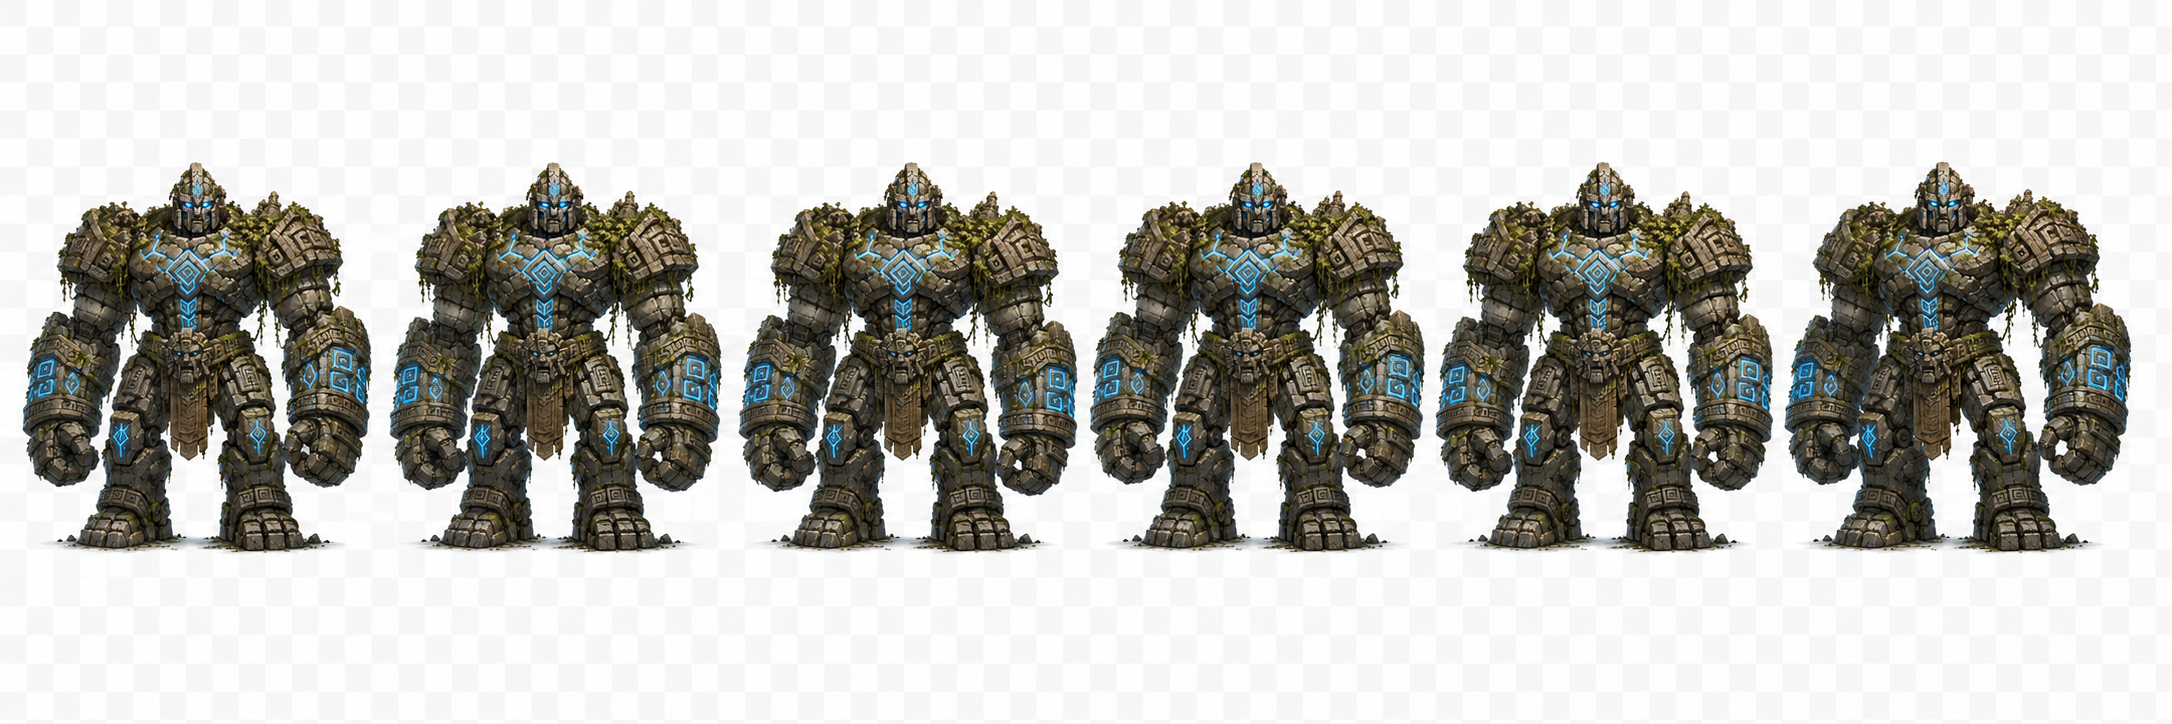
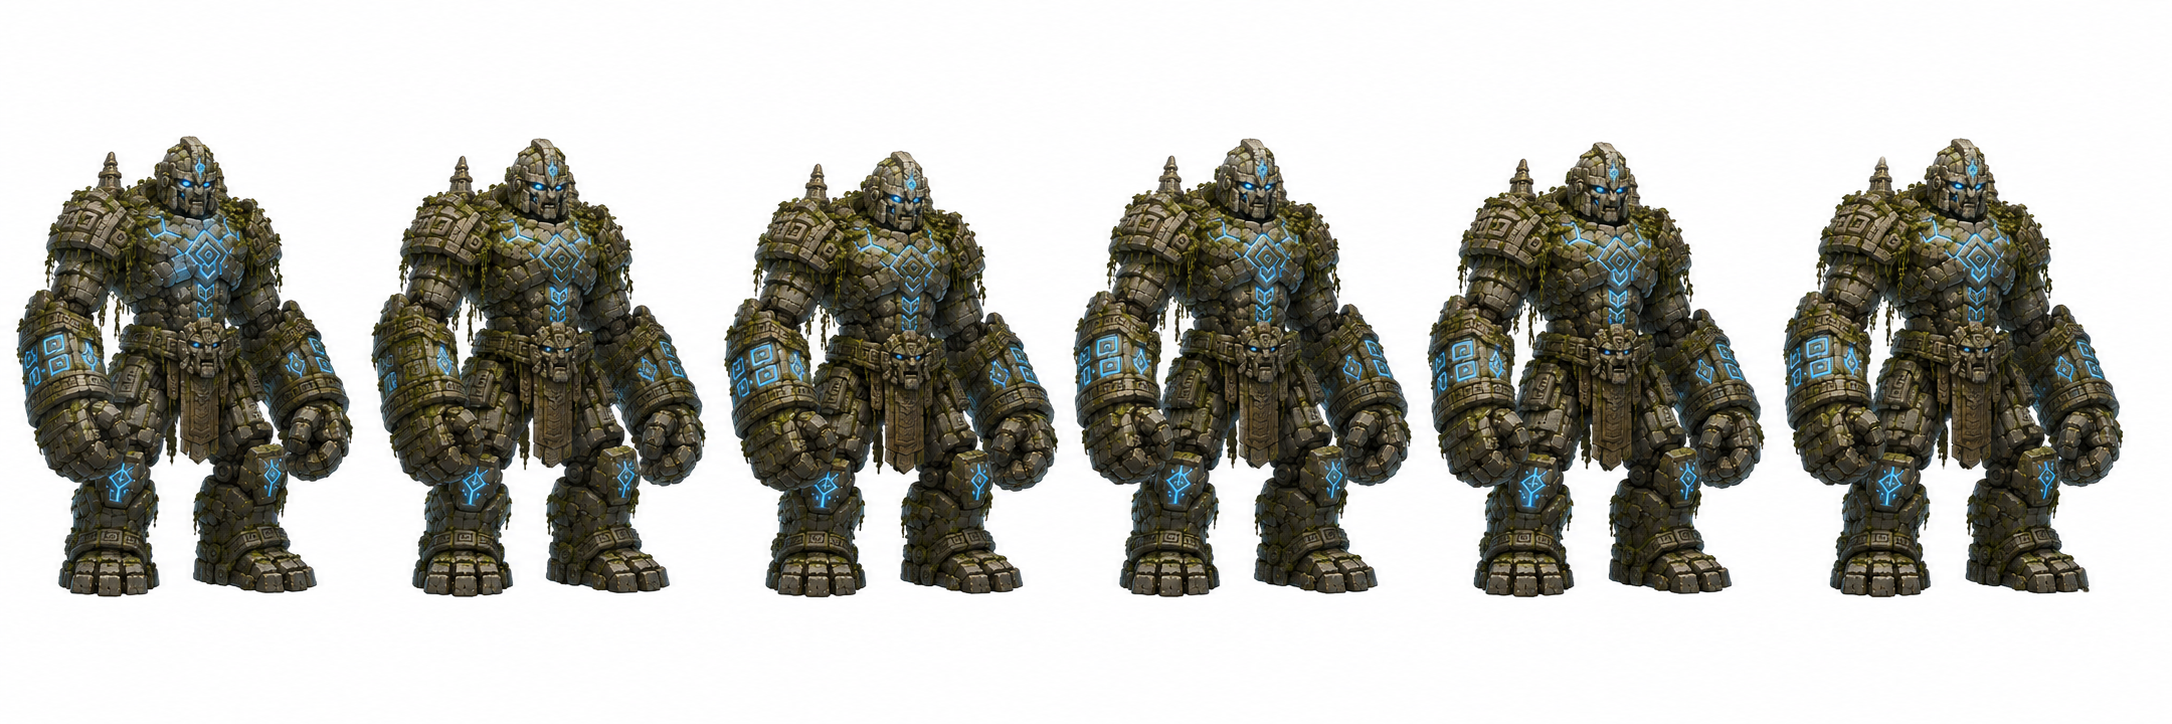
Web 2D: wire bespoke golem animations for all 5 attacks
Replaces the placeholder poses (dash->walk, others->old slam) with the generated
9-sheet golem pack: idle, walk, smash, dash, bigrock, scatter, quake, hit, death.
- Packer: golem job list updated to the 9 single-row clips; renamed slam->smash
  to match the sim's attack names; added an `even` split option for sheets whose
  debris bridges frame gaps (scatter) and applied it there.
- View: GOLEM strip set loads the 9 clips with per-clip fps tuned so each attack
  plays across its windup->strike; bossClip() now returns b.attack directly so
  every pattern shows its own animation. Telegraphs/boulders unchanged.
- Removed obsolete golem_slam art; updated assets/README. 38 tests still pass.

Claude-Session: https://claude.ai/code/session_01T2UvrvtPQEdDNw9UqU1nTn

diff --git a/web2d/src/main.js b/web2d/src/main.js
@@ -59,11 +59,15 @@ const pointers = new Map(); // pointerId -> { role }
 // Missing files fall back to the placeholder circle, so the game runs today.
 const BOSS_DISPLAY_H = 190; // on-screen height of the golem in px
 const GOLEM = {
-  idle:  loadStrip("./assets/golem_idle.png", 6, 8, true),
-  walk:  loadStrip("./assets/golem_walk.png", 8, 10, true),
-  slam:  loadStrip("./assets/golem_slam.png", 10, 14, false),
-  hit:   loadStrip("./assets/golem_hit.png", 4, 16, false),
-  death: loadStrip("./assets/golem_death.png", 6, 9, false),
+  idle:    loadStrip("./assets/golem_idle.png", 6, 8, true),
+  walk:    loadStrip("./assets/golem_walk.png", 8, 10, true),
+  smash:   loadStrip("./assets/golem_smash.png", 8, 8, false),
+  dash:    loadStrip("./assets/golem_dash.png", 6, 7, false),
+  bigrock: loadStrip("./assets/golem_bigrock.png", 6, 7, false),
+  scatter: loadStrip("./assets/golem_scatter.png", 6, 7, false),
+  quake:   loadStrip("./assets/golem_quake.png", 8, 6, false),
+  hit:     loadStrip("./assets/golem_hit.png", 4, 16, false),
+  death:   loadStrip("./assets/golem_death.png", 6, 9, false),
 };
 const bossAnim = new Animator();
 
@@ -104,11 +108,8 @@ function updateBossAnimSignals(dt) {
 function bossClip() {
   const b = game.boss;
   if (game.over === "won") return "death";
-  if (b.state === "windup" || b.state === "strike") {
-    // Placeholder mapping until per-attack art exists: the dash reads as a run,
-    // the rest share the slam pose. (Regenerating golem art is the next step.)
-    return b.attack === "dash" ? "walk" : "slam";
-  }
+  // Each attack now has its own animation (smash/dash/bigrock/scatter/quake).
+  if (b.state === "windup" || b.state === "strike") return b.attack;
   if (bossHitT > 0) return "hit";
   if (b.state === "idle" && bossMoving) return "walk";
   return "idle";

diff --git a/web2d/assets/README.md b/web2d/assets/README.md
@@ -20,11 +20,15 @@ runs). This covers both the **golem** boss and the **archer** player.
 ## Files the code expects (name · frames · fps)
 | File | Frames | FPS | Loop |
 |------|-------:|----:|------|
-| `golem_idle.png`  | 6  | 8  | yes |
-| `golem_walk.png`  | 8  | 10 | yes |
-| `golem_slam.png`  | 10 | 14 | no  |
-| `golem_hit.png`   | 4  | 16 | no  |
-| `golem_death.png` | 6  | 9  | no  |
+| `golem_idle.png`    | 6 | 8  | yes |
+| `golem_walk.png`    | 8 | 10 | yes |
+| `golem_smash.png`   | 8 | 8  | no  |
+| `golem_dash.png`    | 6 | 7  | no  |
+| `golem_bigrock.png` | 6 | 7  | no  |
+| `golem_scatter.png` | 6 | 7  | no  |
+| `golem_quake.png`   | 8 | 6  | no  |
+| `golem_hit.png`     | 4 | 16 | no  |
+| `golem_death.png`   | 6 | 9  | no  |
 | `archer_idle.png`  | 6 | 8  | yes |
 | `archer_walk.png`  | 8 | 11 | yes |
 | `archer_shoot.png` | 6 | 16 | no  |
